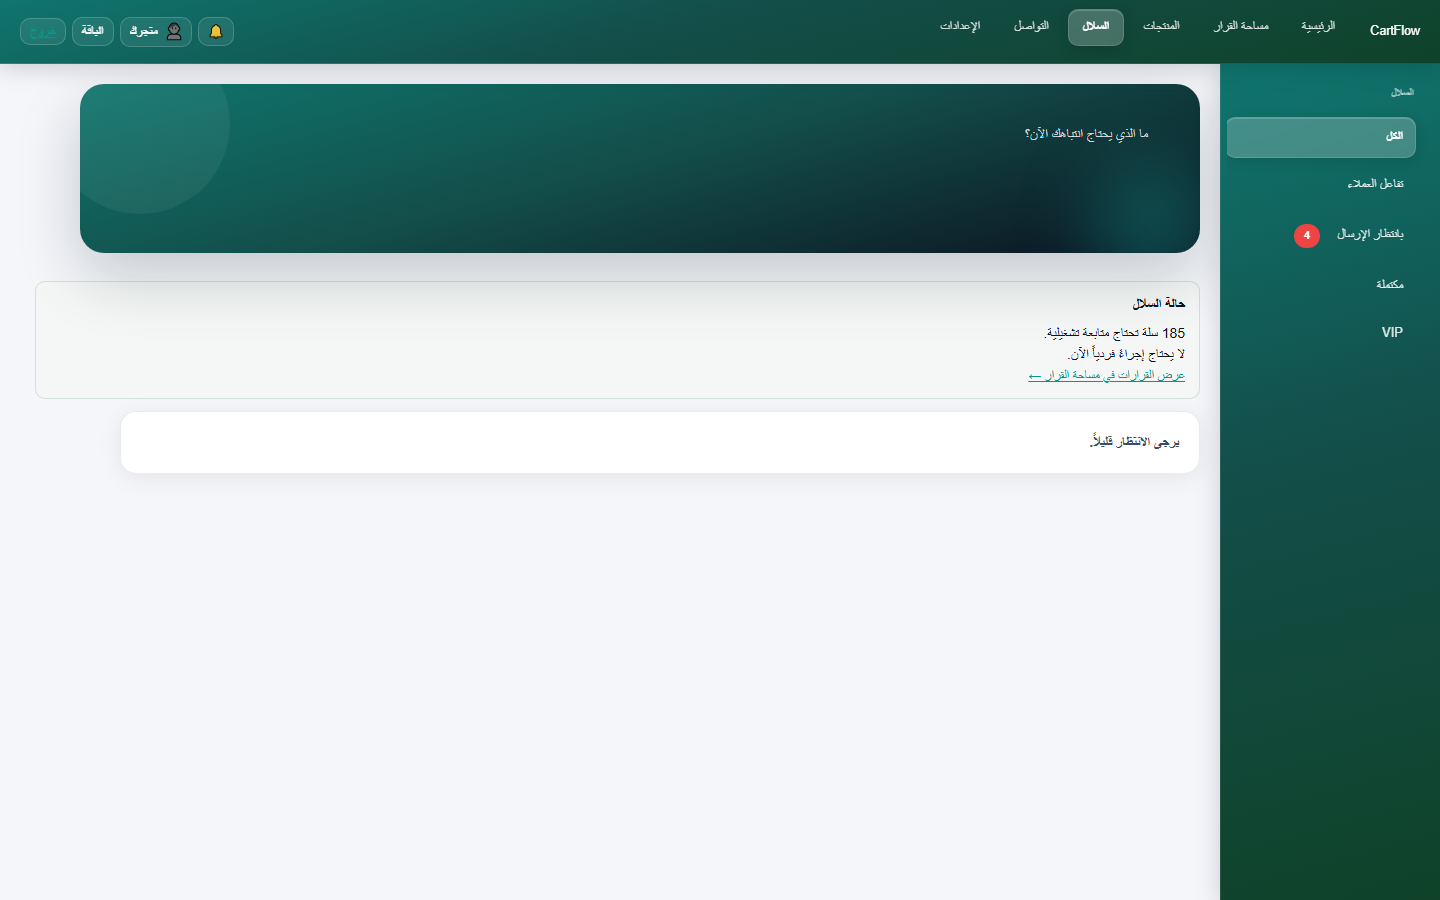
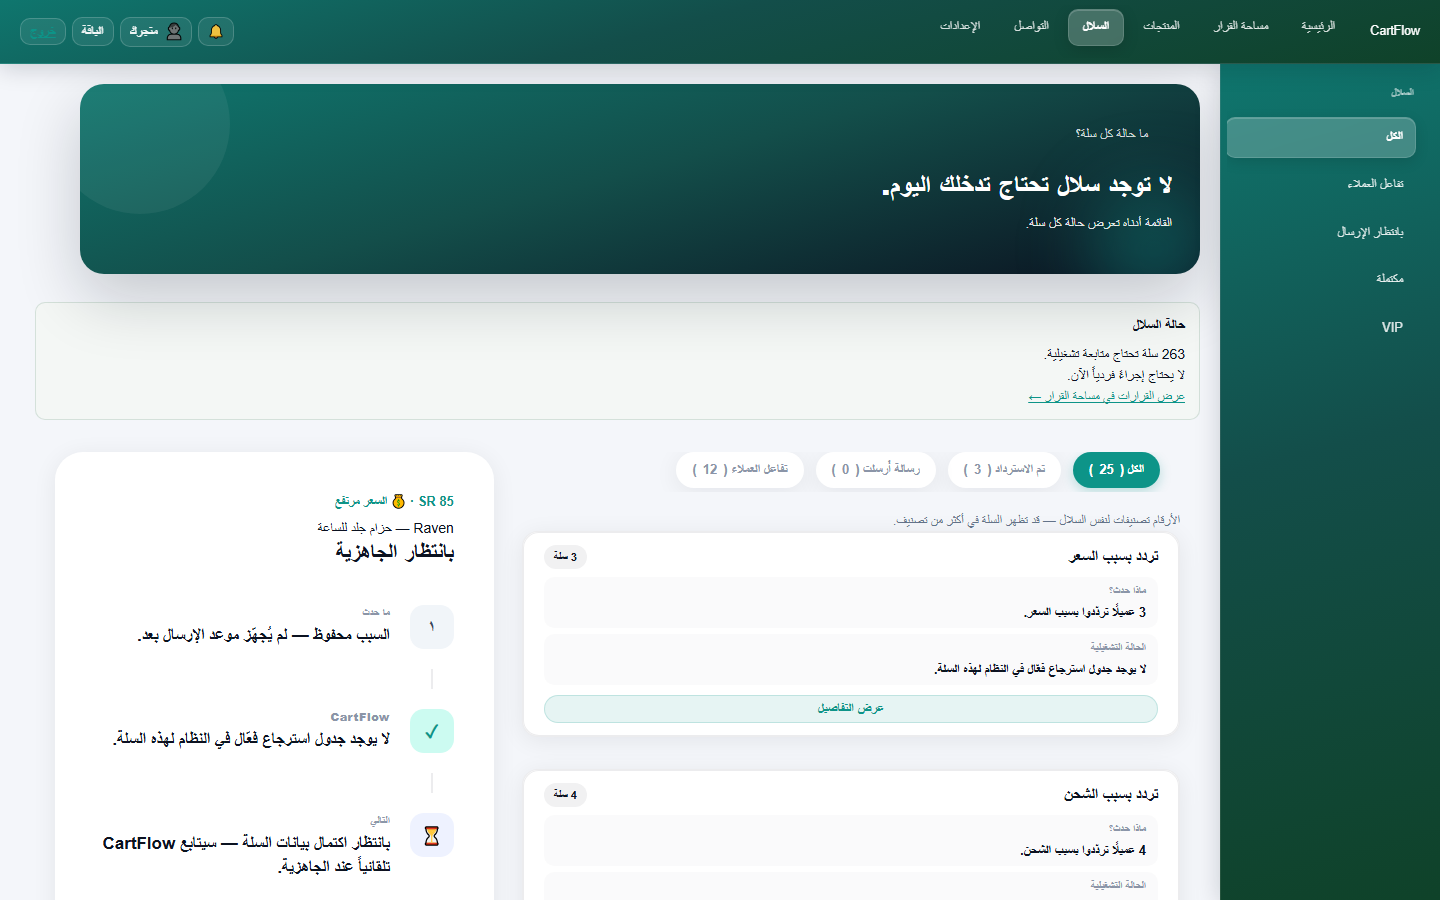
docs(constitution): record PASS_CONSTITUTION_PROD Living Store pack

diff --git a/docs/product/dashboard_constitution_v1/PRODUCTION_VALIDATION_V1.md b/docs/product/dashboard_constitution_v1/PRODUCTION_VALIDATION_V1.md
@@ -1,7 +1,7 @@
 # Dashboard Constitution V1 — Production Validation
 
-**Generated (UTC):** 2026-07-26T22:11:37.092527+00:00  
-**Verdict:** `FAIL_CONSTITUTION_PROD`  
+**Generated (UTC):** 2026-07-26T23:09:06.985089+00:00  
+**Verdict:** `PASS_CONSTITUTION_PROD`  
 
 ## Precondition (certified Living Store)
 
@@ -10,7 +10,7 @@
 | status | `CONSISTENT` |
 | CEO_REVIEW_SAFE | `True` |
 | store_slug | `demo` |
-| simulation_run_id | `srs_354a106febbd4e48bc45d1e6999fa393` |
+| simulation_run_id | `srs_c8e24386205a4a1e82063049113f80d4` |
 
 ## Acceptance flags
 
@@ -20,10 +20,10 @@
   "any_tech": false,
   "same_run": true,
   "carts_operational_only": true,
-  "comms_facts": false,
-  "empty_hash_home": false,
+  "comms_facts": true,
+  "empty_hash_home": true,
   "month_wall_hidden": true,
-  "purposes_ok": false
+  "purposes_ok": true
 }
 ```
 

diff --git a/docs/product/dashboard_constitution_v1/IMPLEMENTATION_V1.md b/docs/product/dashboard_constitution_v1/IMPLEMENTATION_V1.md
@@ -1,8 +1,9 @@
 # Dashboard Constitution Implementation V1
 
-**Status:** Implemented (merchant UI alignment — no new engines)  
+**Status:** Implemented + production validated  
 **Date (UTC):** 2026-07-26  
-**Audit:** [`OWNERSHIP_AUDIT_V1.md`](OWNERSHIP_AUDIT_V1.md)
+**Audit:** [`OWNERSHIP_AUDIT_V1.md`](OWNERSHIP_AUDIT_V1.md)  
+**Prod pack:** [`PRODUCTION_VALIDATION_V1.md`](PRODUCTION_VALIDATION_V1.md)
 
 ## What changed
 
